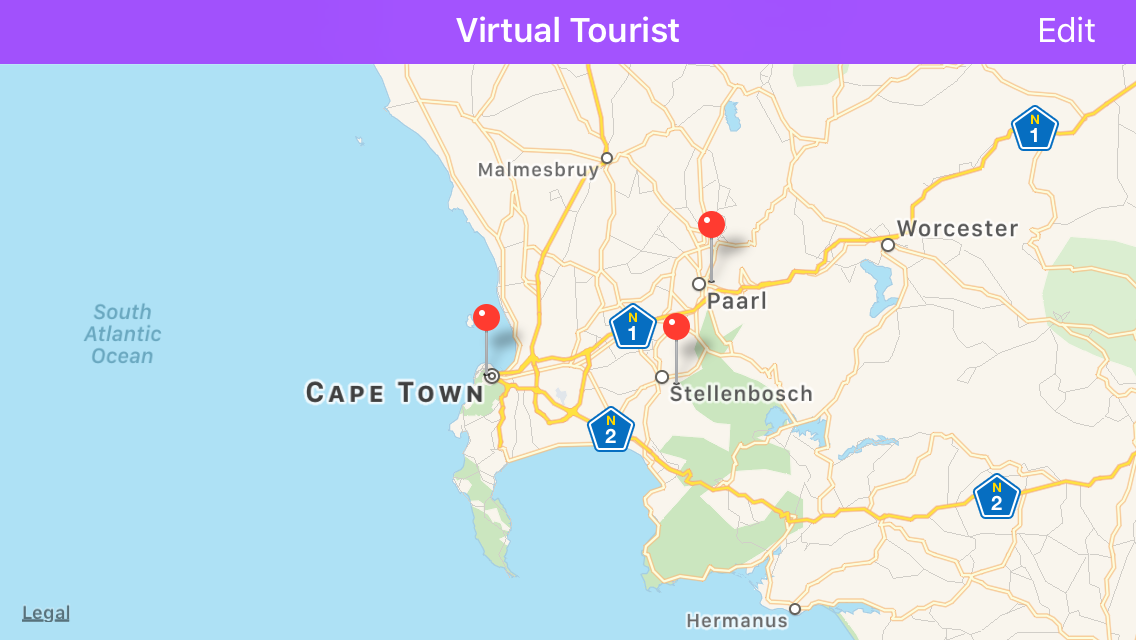
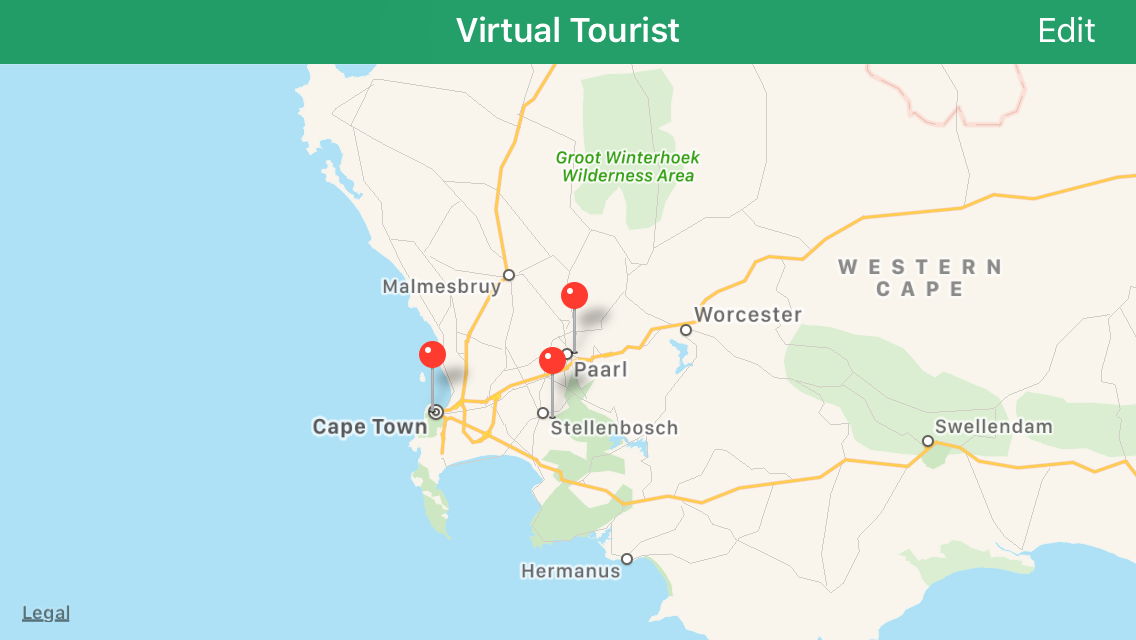
Updated colors and screenshots.

diff --git a/VirtualTourist/LocationViewController.swift b/VirtualTourist/LocationViewController.swift
@@ -75,9 +75,9 @@ class LocationViewController: UIViewController {
         super.viewDidLoad()
         navigationItem.rightBarButtonItem = editButtonItem
         navigationController?.toolbar.barTintColor = UIColor(
-            red: 128.0 / 255.0,
-            green: 0.0 / 255.0,
-            blue: 255.0 / 255.0,
+            red: 0.0 / 255.0,
+            green: 128.0 / 255.0,
+            blue: 64.0 / 255.0,
             alpha: 1.0)
         configurePlaceholderView()
         configureMapView()

diff --git a/README.md b/README.md
@@ -6,7 +6,7 @@ Mark locations of interest on a map by adding and removing pins. See photos for 
 
 <img src="Screenshots/iPhone/Portrait/1 Map.png" width="320">
 <img src="Screenshots/iPhone/Portrait/2 Photos.png" width="320">
-<img src="Screenshots/iPhone/Portrait/3 Photo.png" width="320">
+<img src="Screenshots/iPhone/Landscape/3 Photo.png" height="320">
 
 ## Features
 
@@ -28,4 +28,8 @@ Image data is also managed by Core Data using the external file attribute for th
 
 ### Photos
 
-Photos are loaded in the background when the pin is added to the map. The image is created using *MKMapSnapshotter* and cached in the Core Data.
+Photos are loaded in the background when the pin is added to the map. When the app launches it resumes downloading any images which were not
+
+### Map
+
+The photos screen displays an image for the map, instead of using an *MKMapView*. This is done for performance reasons, to enable the stretchy header to expand and contract when the collection view is temporarily scrolled beyond its limits. A normal MKMapView does not update fast enough for this interaction, and causes the display to become laggy. The image is generated using *MKMapSnapshotter*. The snapshot is created asynchrously. A side effect of using a snapshot is that the generated image does include annotations, and so the pin image is added explicitly.
